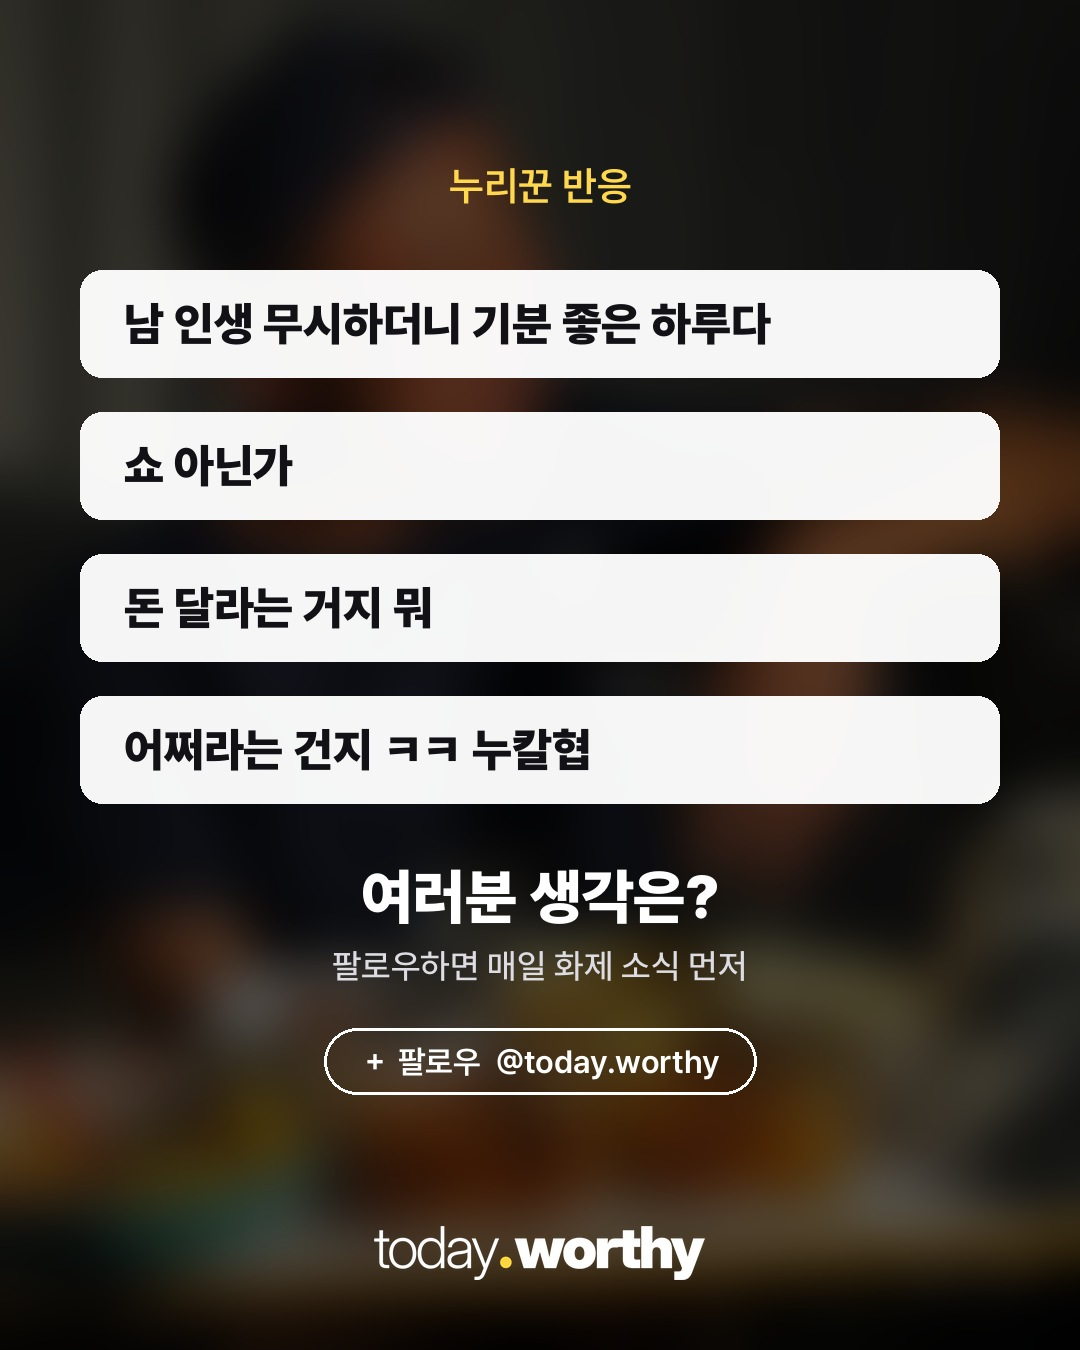
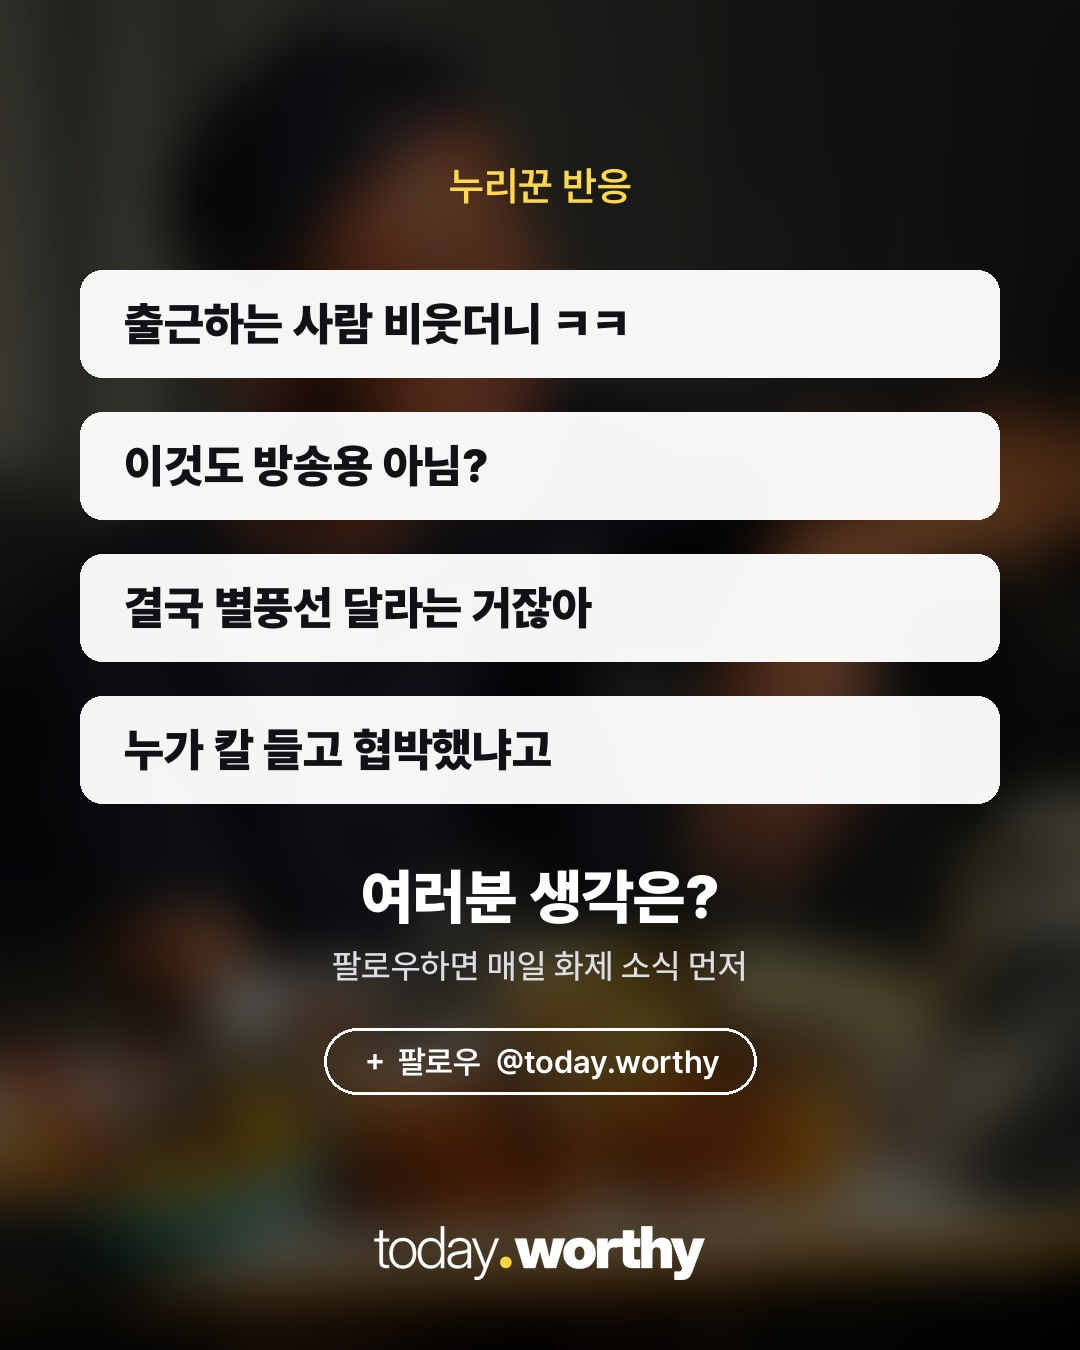
zico: 누리꾼 반응 문구 다듬기
Claude-Session: https://claude.ai/code/session_01FGsw5S4nGrZdCJo7qBU1wE

diff --git a/media/20261123-zico/make_cta.py b/media/20261123-zico/make_cta.py
@@ -5,7 +5,7 @@ from PIL import Image, ImageDraw, ImageFont, ImageFilter, ImageEnhance, ImageOps
 D = Path(__file__).parent; R = D.parents[1]; O = D / "cand"
 W, H = 1080, 1350; YE = (255, 216, 77)
 F = lambda w, s: ImageFont.truetype(str(R / f"assets/fonts/Pretendard-{w}.otf"), s)
-COMMENTS = ["남 인생 무시하더니 기분 좋은 하루다", "쇼 아닌가", "돈 달라는 거지 뭐", "어쩌라는 건지 ㅋㅋ 누칼협"]
+COMMENTS = ["출근하는 사람 비웃더니 ㅋㅋ", "이것도 방송용 아님?", "결국 별풍선 달라는 거잖아", "누가 칼 들고 협박했냐고"]
 
 bg = ImageOps.fit(Image.open(O / "cover_bg.jpg").convert("RGB"), (W, H), Image.LANCZOS)
 bg = ImageEnhance.Brightness(bg.filter(ImageFilter.GaussianBlur(26))).enhance(.35).convert("RGBA")
